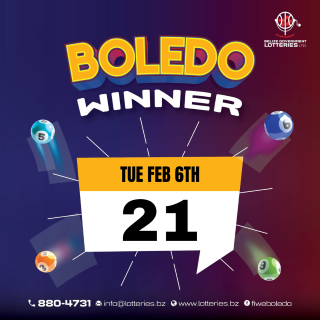
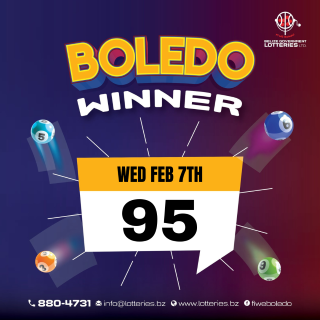
Updated Winning Number

Changed region(s): [[0.375, 0.625, 0.625, 0.7812], [0.3438, 0.5, 0.6562, 0.5938]]

diff --git a/winningNumbers.js b/winningNumbers.js
@@ -59,6 +59,7 @@ var ordinaryLotteryDatabase = {
     "21/01/2024": '27',
     "28/01/2024": '22',
     "04/02/2024": '45',
+    "11/02/2024": '99',
 
 };
 
@@ -73,4 +74,5 @@ var jackpotDatabase = {
     "21/01/2024": ['3727', '2476', '9068'],
     "28/01/2024": ['1222', '9179', '9505'],
     "04/02/2024": ['8645', '6929', '5287'],
+    "11/02/2024": ['0999', '0868', '6252'],
 };
